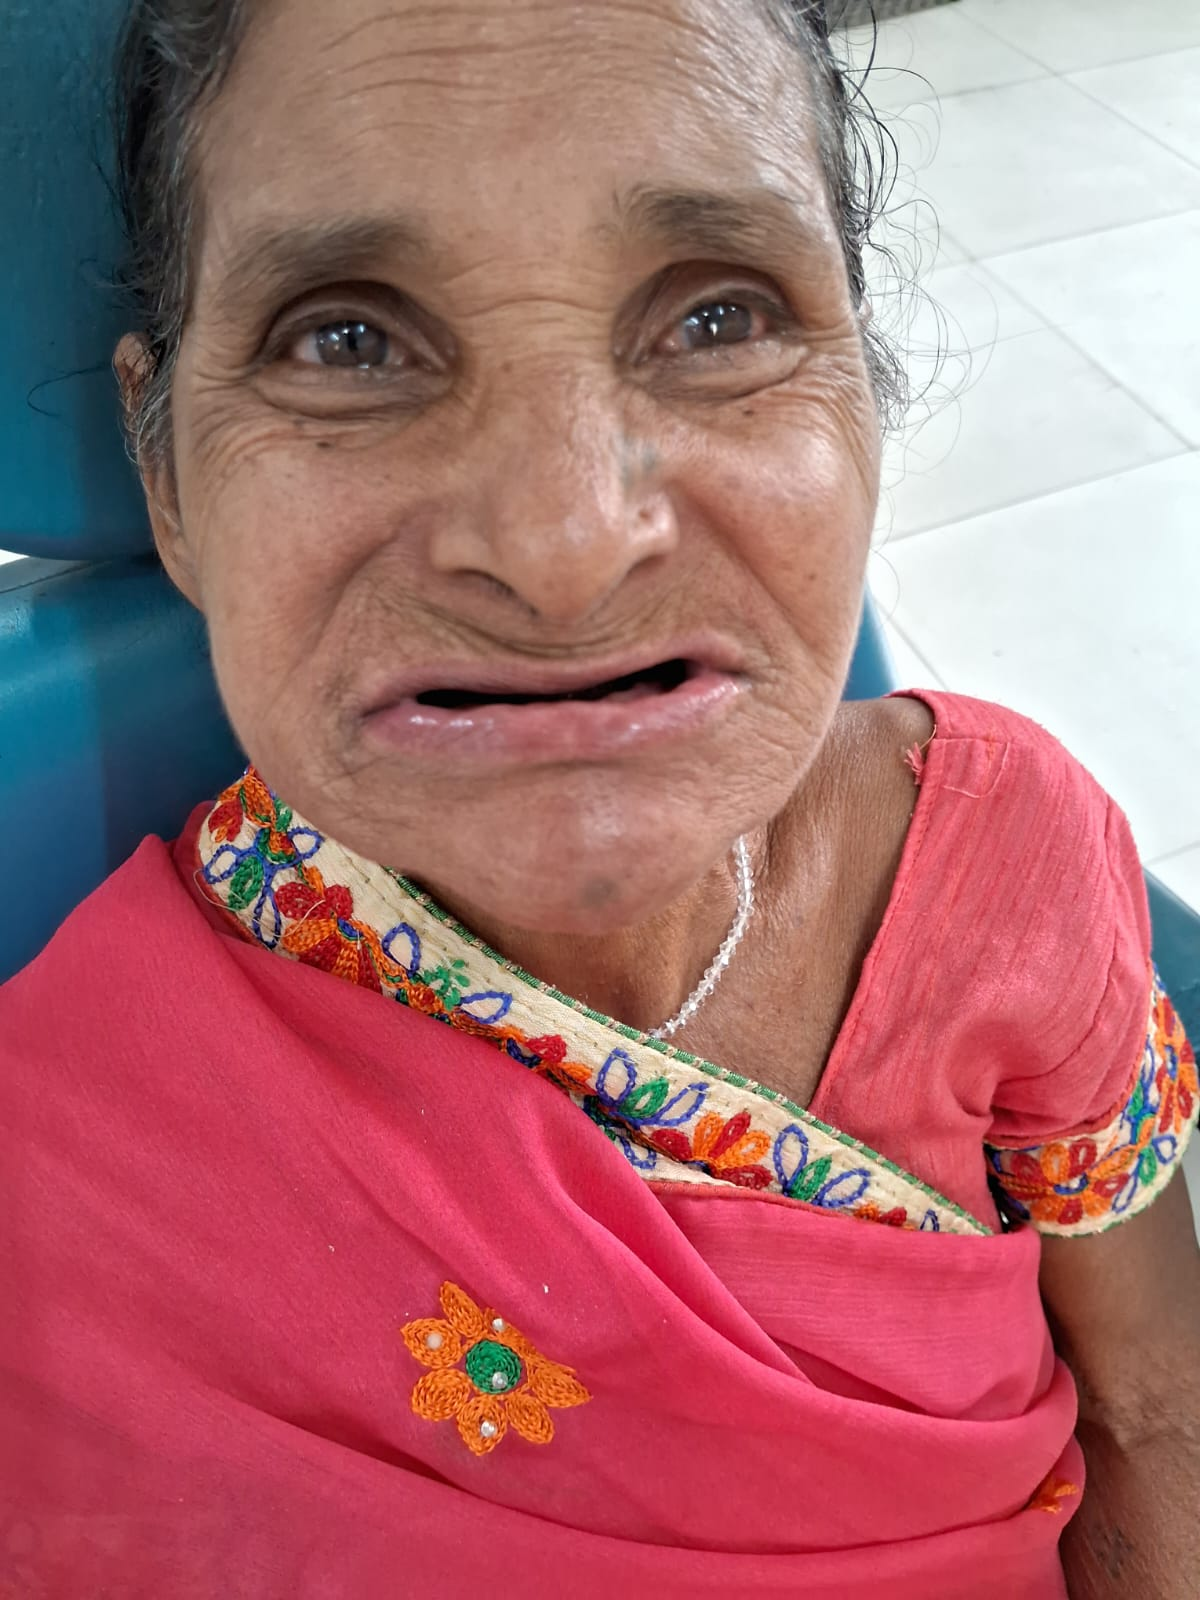
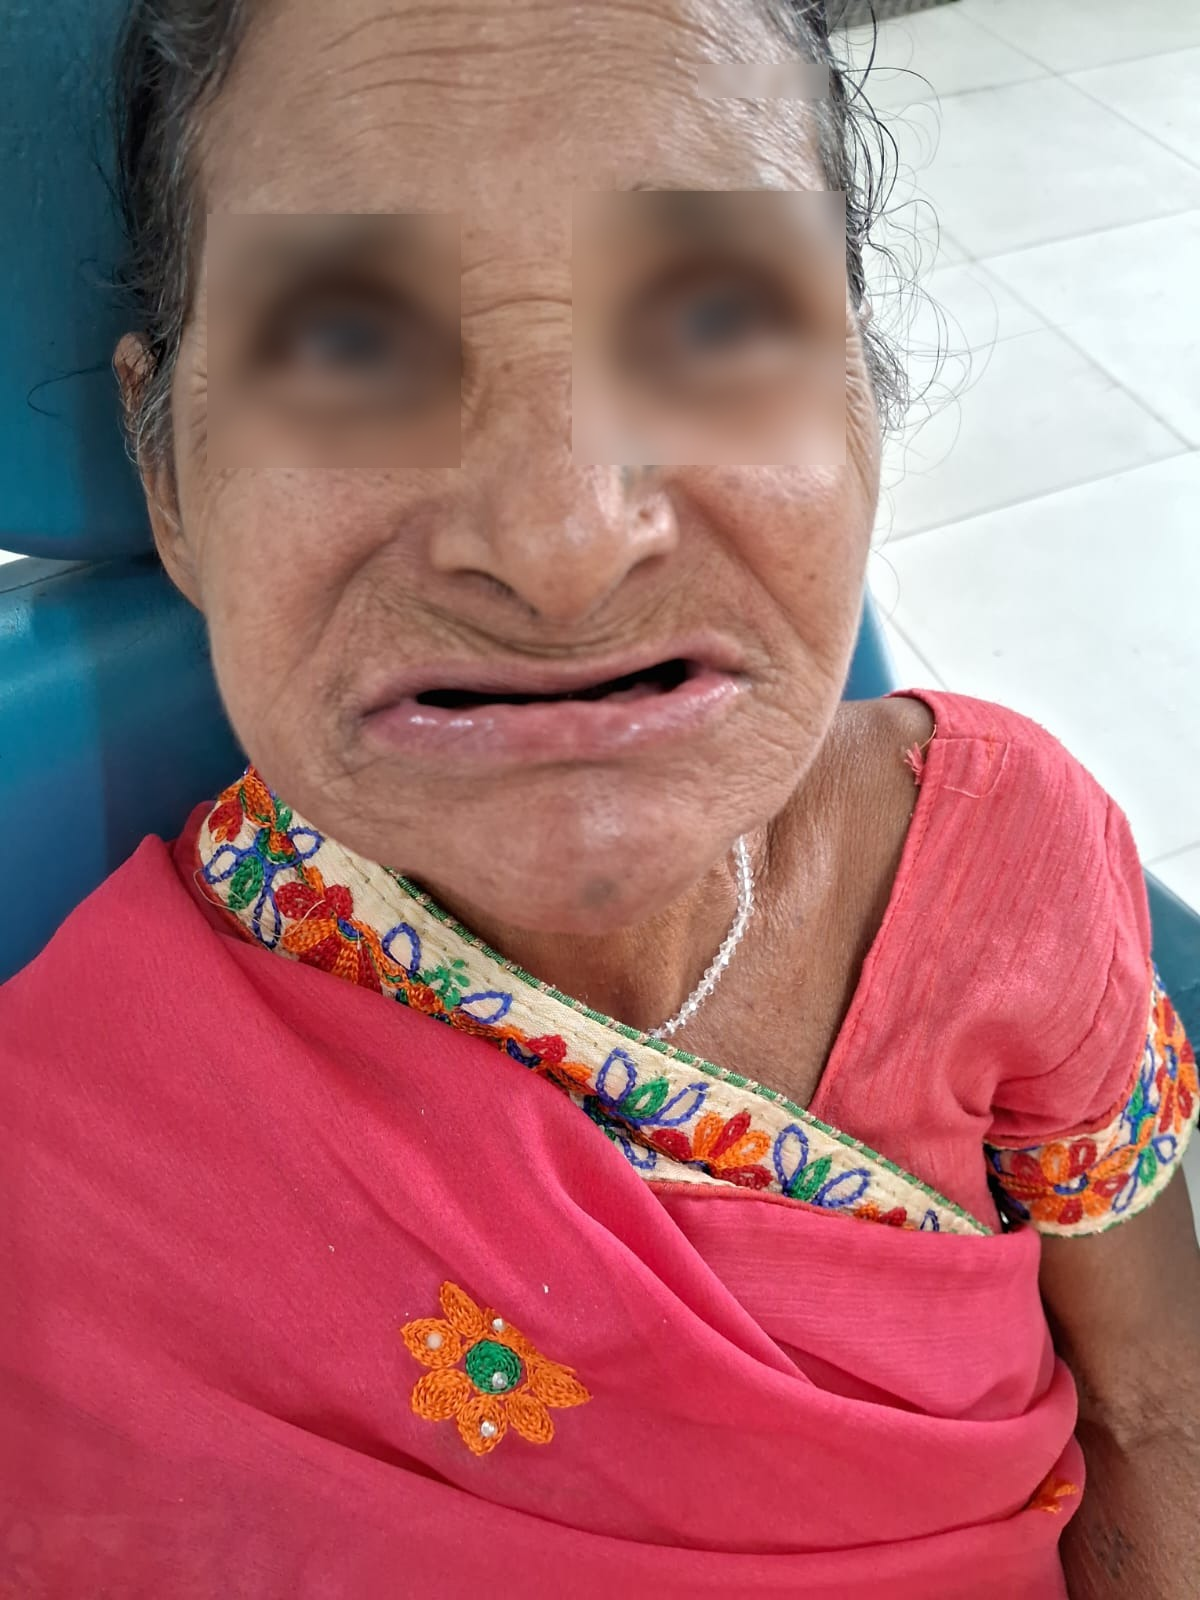
Blur patient eyes in gallery-18 & 19; remove NEET-MDS references

diff --git a/veena.html b/veena.html
@@ -3,7 +3,7 @@
 <head>
     <meta charset="UTF-8">
     <meta name="viewport" content="width=device-width, initial-scale=1.0">
-    <meta name="description" content="Dr. Veena Patel - BDS Graduate, NEET-MDS Aspirant. Dental Surgeon Portfolio.">
+    <meta name="description" content="Dr. Veena Patel - BDS Graduate. Dental Surgeon Portfolio.">
     <title>Dr. Veena Patel | BDS | Dental Surgeon</title>
     <link rel="stylesheet" href="https://cdnjs.cloudflare.com/ajax/libs/font-awesome/6.4.0/css/all.min.css">
     <link href="https://fonts.googleapis.com/css2?family=Poppins:wght@300;400;500;600;700&family=Playfair+Display:wght@600;700&display=swap" rel="stylesheet">
@@ -525,7 +525,7 @@
             <div class="hero-grid">
                 <div>
                     <h1 class="hero-title">Hi, I'm <span class="highlight">Dr. Veena Patel</span></h1>
-                    <p class="hero-subtitle">BDS &middot; NEET-MDS Aspirant</p>
+                    <p class="hero-subtitle">BDS &middot; Dental Surgeon</p>
                     <p class="hero-description">
                         A dedicated dental surgeon passionate about delivering compassionate, evidence-based care.
                         Trained across all dental specialties with hands-on experience treating
@@ -558,10 +558,6 @@
                         With comprehensive exposure across all dental specialties — from preventive and restorative
                         dentistry to oral surgery — I have successfully treated and assisted in the care of
                         over <strong>1000 patients</strong>, combining clinical excellence with compassionate care.
-                    </p>
-                    <p>
-                        I'm currently preparing for <strong>NEET-MDS</strong> to pursue specialization, while
-                        contributing as a junior/locum dentist in dynamic clinical settings.
                     </p>
                 </div>
                 <div class="info-cards">
